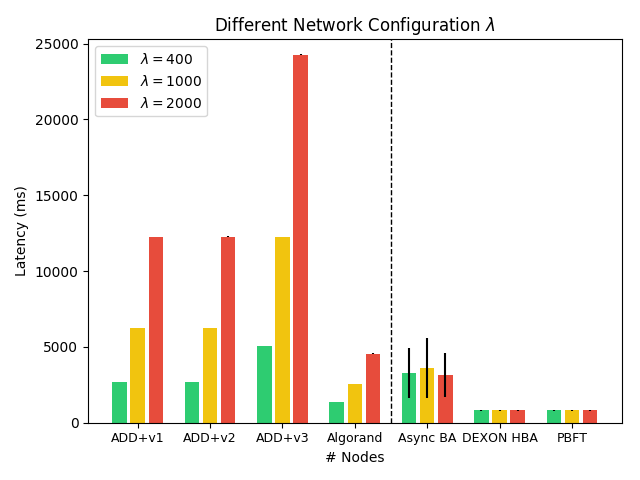
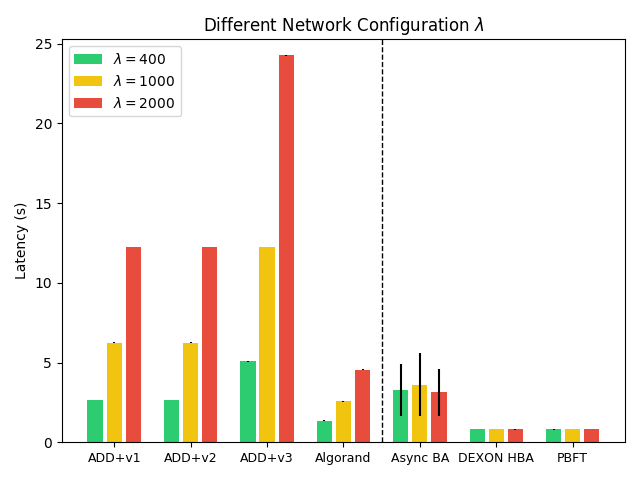
responsive remove #nodes; ms to s

diff --git a/draw-res.py b/draw-res.py
@@ -35,15 +35,23 @@ def autolabel(rects, ax, xpos='center'):
                     textcoords="offset points",  # in both directions
                     ha=ha[xpos], va='bottom')
 '''
-width = 0.2  # the width of the bars
+# for different network
+width = 0.25  # the width of the bars
 seperateDist = 0.15
+# for different lambda
+#width = 0.2  # the width of the bars
+#seperateDist = 0.15
 def draw(expData):
     fig, ax = plt.subplots()
     # Add some text for labels, title and custom x-axis tick labels, etc.
-    ax.set_ylabel('Latency (ms)')
-    ax.set_xlabel('# Nodes')
+    ax.set_ylabel('Latency (s)')
+    #ax.set_xlabel('# Nodes')
     #ax.set_title(r'$Network = \mathcal{N}(250, 50), \lambda = 1000$')
-    ax.set_title('Different Network Configuration ' + r'$\lambda$')
+    # for different network
+    ax.set_title('Responsiveness with Different Network')
+
+    # for different lambda
+    #ax.set_title('Different Network Configuration ' + r'$\lambda$')
     ind = np.arange(len(expData[0]['means']))  # the x locations for the groups
 
     ax.set_xticks(ind)
@@ -54,8 +62,8 @@ def draw(expData):
         print(data)
         mMax = max([a + b for a, b in zip(data['means'], data['std'])])
         yMax = mMax if mMax > yMax else yMax
-
-        positions = ind + data['pos'] * (width / 2 + seperateDist)
+        # 0.14 is for different network
+        positions = ind + data['pos'] * (width / 2 + seperateDist) + 0.14
         rect = ax.bar(positions, data['means'], width, yerr=data['std'],
                 label=data['label'], color=data['color'])
         
@@ -63,7 +71,7 @@ def draw(expData):
     print(yMax)
     plt.axvline(3.5, color='k', linestyle='dashed', linewidth=1)
 
-    plt.ylim(top=yMax + 1000)
+    plt.ylim(top=yMax + 1)
     ax.legend(loc='upper left')
     fig.tight_layout()
     plt.show()
@@ -179,36 +187,38 @@ d5 = {
 }
 
 expData = [
-    # {
-    #     'means': d1['mean'],
-    #     'std': d1['std'],
-    #     'label': r'$\mathcal{N}(1000, 300)$',
-    #     'color': colors['r']
-    # },
-    # {
-    #     'means': d2['mean'],
-    #     'std': d2['std'],
-    #     'label': r'$\mathcal{N}(250, 50)$',
-    #     'color': colors['g']
-    # },
+    # for different network
     {
-        'means': d3['mean'],
-        'std': d3['std'],
-        'label': r'$\lambda = 400$',
-        'color': colors['g']
-    },
-    {
-        'means': d4['mean'],
-        'std': d4['std'],
-        'label': r'$\lambda = 1000$',
-        'color': colors['y']
-    },
-        {
-        'means': d5['mean'],
-        'std': d5['std'],
-        'label': r'$\lambda = 2000$',
+        'means': d1['mean'],
+        'std': d1['std'],
+        'label': r'$\mathcal{N}(1000, 300)$',
         'color': colors['r']
     },
+    {
+        'means': d2['mean'],
+        'std': d2['std'],
+        'label': r'$\mathcal{N}(250, 50)$',
+        'color': colors['g']
+    },
+    # for different lambda
+    # {
+    #     'means': d3['mean'],
+    #     'std': d3['std'],
+    #     'label': r'$\lambda = 400$',
+    #     'color': colors['g']
+    # },
+    # {
+    #     'means': d4['mean'],
+    #     'std': d4['std'],
+    #     'label': r'$\lambda = 1000$',
+    #     'color': colors['y']
+    # },
+    #     {
+    #     'means': d5['mean'],
+    #     'std': d5['std'],
+    #     'label': r'$\lambda = 2000$',
+    #     'color': colors['r']
+    # },
     # {
     #     'means': d2['mean'],
     #     'std': d2['std'],
@@ -228,6 +238,12 @@ expData = [
     #     'color': '#8e44ad'
     # }
 ]
+# latency ms to s
+if (t == 'l'):
+    for data in expData:
+        data['means'] = [i / 1000 for i in data['means']]
+        data['std'] = [i / 1000 for i in data['std']]
+
 # calculate pos
 l = len(expData)
 poss = range(0, l)
